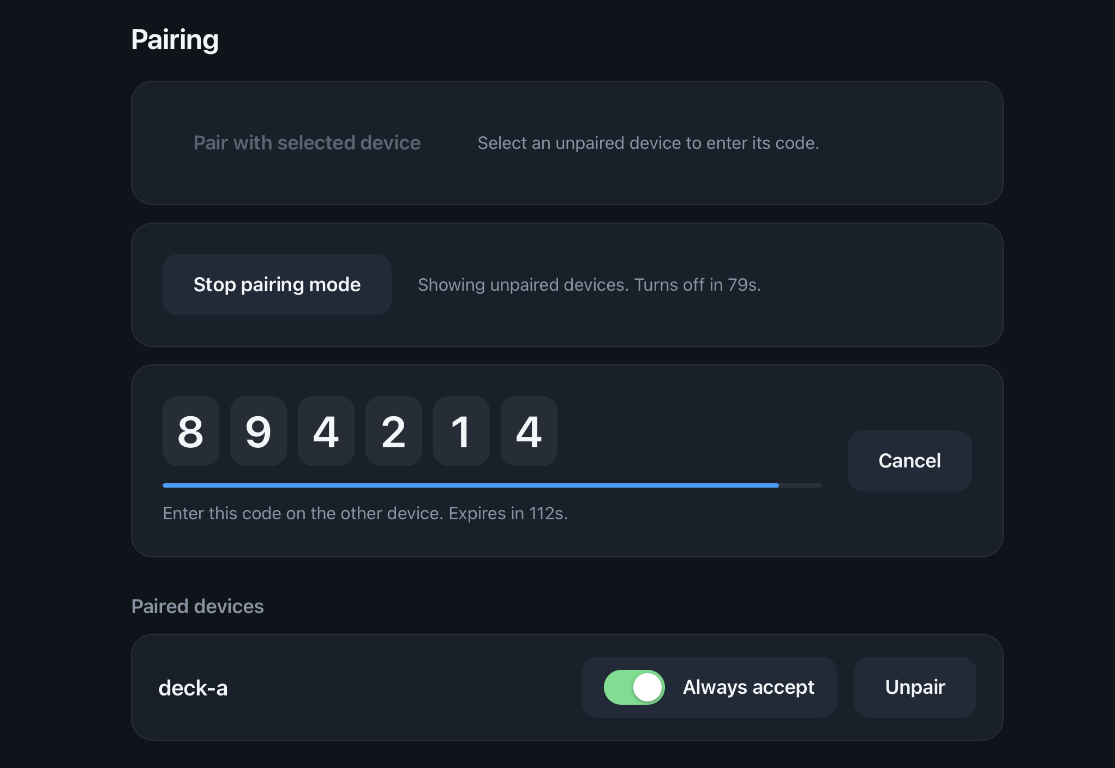
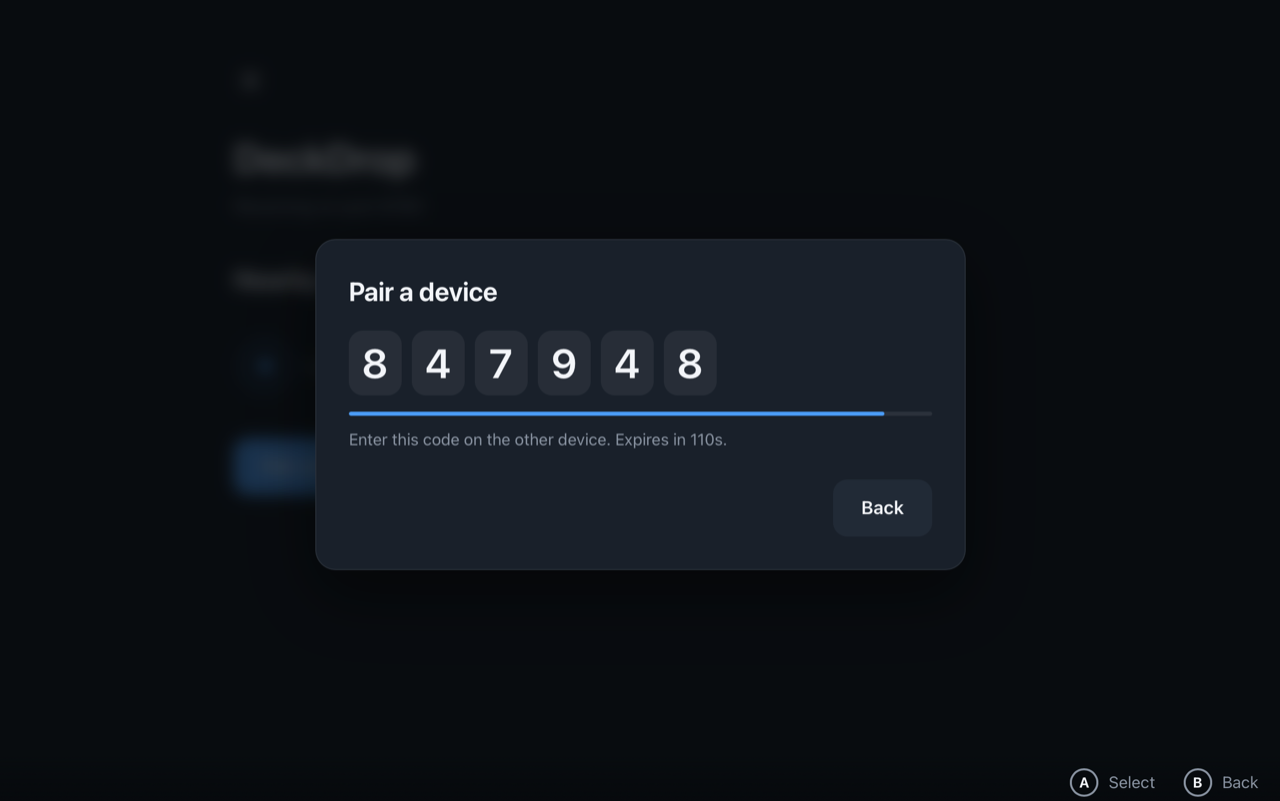
docs: rewrite README and refresh screenshots (#68)

diff --git a/README.md b/README.md
@@ -1,178 +1,82 @@
 # DeckDrop
 
-Send files between your Steam Deck, PC and Mac over your home network. No accounts, no cloud: devices find each other on the local network, and everything is encrypted.
+**Send files between your Steam Deck, PC and Mac over your home network.**
+No accounts, no cloud, no cables. Devices find each other automatically, and every transfer is encrypted.
 
-- **For users:** [Install](#install), [Send your first file](#send-your-first-file), [Good to know](#good-to-know)
-- **For advanced users:** [Headless mode and configuration](#advanced-headless-mode-and-configuration)
-- **For developers:** [Development](#development), [HTTP API](#http-api), [Security design](#security-design)
+[![Latest release](https://img.shields.io/github/v/release/TobyPinfold/deck-drop?include_prereleases&sort=semver)](https://github.com/TobyPinfold/deck-drop/releases)
+[![CI](https://github.com/TobyPinfold/deck-drop/actions/workflows/ci.yml/badge.svg)](https://github.com/TobyPinfold/deck-drop/actions/workflows/ci.yml)
+[![License: GPL v3](https://img.shields.io/badge/license-GPLv3-blue.svg)](LICENSE)
 
----
+<img src="docs/images/home.png" alt="DeckDrop showing three paired devices nearby, with two files downloading" width="720">
 
-# For users
+## Features
+
+- **Built for the Steam Deck.** Works in Game Mode with the gamepad: D-pad to move, A to select, B to go back. A mouse and keyboard work too.
+- **Finds devices on its own.** Nearby devices show up automatically over your local network. There are no IP addresses to type.
+- **Private by design.** Files go straight from one device to the other over TLS 1.3. Nothing passes through a server.
+- **You decide what arrives.** Devices pair once with a six digit code, and you accept or decline every incoming transfer, unless you mark a device as trusted.
+- **Resumes big transfers.** Pause a transfer, or lose the connection, and it picks up where it stopped.
+- **Runs anywhere.** Steam Deck and Linux (x86_64 and arm64), Windows, and macOS. There is also a [headless mode](docs/headless.md) for always-on machines.
 
 ## Install
 
-Download the latest build for your system from the [Releases page](https://github.com/TobyPinfold/deck-drop/releases):
+Download the latest build from the [Releases page](https://github.com/TobyPinfold/deck-drop/releases):
 
-| System                | Download                       |
-| --------------------- | ------------------------------ |
-| Steam Deck / Linux    | AppImage                       |
-| Windows               | Installer                      |
-| macOS (Apple Silicon) | Zipped app                     |
+| System                      | Download                       |
+| --------------------------- | ------------------------------ |
+| Steam Deck / Linux (x86_64) | `deckdrop-x86_64.AppImage`     |
+| Linux (arm64)               | `deckdrop-aarch64.AppImage`    |
+| Windows                     | `deckdrop-amd64-installer.exe` |
+| macOS (Apple Silicon)       | `deckdrop-macos.zip`           |
 
-The macOS and Windows builds are not signed yet. On macOS, right-click the app and choose **Open** the first time. On Windows, SmartScreen may warn you; choose **More info**, then **Run anyway**.
+> [!NOTE]
+> The macOS and Windows builds are not signed yet. On macOS, right-click the app and choose **Open** the first time. On Windows, SmartScreen may warn you; choose **More info**, then **Run anyway**.
 
-## Send your first file
+## How it works
 
-Install DeckDrop on both devices, and make sure they are on the same network. DeckDrop works with a gamepad as well as a mouse: use the D-pad to move, A to select and B to go back.
+Install DeckDrop on both devices and make sure they are on the same network.
 
-<img src="docs/images/devices.png" alt="Nearby devices and sending" width="558">
+### 1. Pair (once)
 
-**1. Pair the devices (once).** Only paired devices can send files to each other.
+On the device that will **receive**, choose **Pair a device → Show a code**. On the device that will **send**, choose **Pair a device → Enter a code**, pick the receiver and type the code.
 
-1. On the device that will *receive*, choose **Pair a device**, then **Show a code**.
-2. On the device that will *send*, choose **Pair a device**, then **Enter a code**. Pick the receiver and enter the six digit code.
+<img src="docs/images/pairing.png" alt="A six digit pairing code with a countdown" width="560">
 
-<img src="docs/images/pairing.png" alt="Pairing code and paired devices" width="558">
+Pairing works one way: it lets the sender send to the receiver. To send both ways, pair the other way round too.
 
-**2. Send.** Select the receiver in **Nearby devices**, then choose **Send files** (or drop files on the window).
+### 2. Send
 
-**3. Accept.** The receiver asks whether to **Accept** or **Decline** (B declines). Accepted files are saved to `Downloads/DeckDrop` in your home folder, and appear under **Received**.
+Select a paired device under **Nearby devices** and choose **Send files**, or drop files on the window.
 
-Pairing works one way: pairing B with A lets B send to A. To send both ways, pair the other way round too.
+<img src="docs/images/send.png" alt="The send dialog for a paired device" width="560">
+
+### 3. Accept
+
+The receiver is asked to **Accept** or **Decline**. Accepted files are saved to `Downloads/DeckDrop` in your home folder and listed under **Received files**.
+
+<img src="docs/images/incoming.png" alt="An incoming offer of three files from gaming-pc, with Accept and Decline buttons" width="560">
+
+Progress shows under **Transfers** on both devices. Transfers can be paused and resumed, and an interrupted one carries on where it stopped.
+
+<img src="docs/images/transfers.png" alt="Two incoming transfers from macbook: one done, one receiving at 221.8 MB/s" width="720">
 
 ## Good to know
 
-- **Pausing and resuming:** pause a transfer, or lose the connection, and resume continues where it stopped. You are not asked to accept again.
-- **Skip the prompt:** turn on **Always accept** next to a paired device you trust.
-- **Unpairing:** **Unpair** removes a device, and it can no longer send until it is paired again.
-- **Who can see you:** only paired devices are listed. Unpaired devices appear for two minutes while pairing mode is on. To stop announcing your device altogether, turn on **Hide this device** in Settings. Paired devices that know its address can still send.
-- **Settings:** the device name, receive folder and port can be changed in **Settings**. Changes apply straight away. If the new port is in use, your previous settings stay.
-- **Pairing codes:** a code works once, expires after two minutes, and is discarded after five wrong guesses. Check that it is shown on the device you expect.
-- **Limits:** hiding a device and pairing reduce who can see and send to you, but they do not stop someone on your network who is sniffing traffic from seeing that DeckDrop is in use. File contents stay encrypted.
-- **Starting over:** deleting DeckDrop's config folder gives the device a new identity, and devices paired with the old one will refuse it. Pair again.
+<img src="docs/images/settings.png" alt="Settings: device name, port, hide this device, and receive folder" width="560">
 
-Your settings, pairings and identity are kept in your user config folder: `~/Library/Application Support/DeckDrop` on macOS, `~/.config/DeckDrop` on Linux, `%AppData%\DeckDrop` on Windows.
+- **Skip the prompt:** turn on **Always accept** for a paired device you trust. **Unpair** removes a device, and it can no longer send until it is paired again.
+- **Who can see you:** only paired devices are listed. Unpaired devices appear for two minutes while you are pairing. To stop announcing your device altogether, turn on **Hide this device** in **Settings**. Paired devices that already know its address can still send.
+- **Settings:** the device name, receive folder and port can be changed in **Settings**, and apply straight away.
+- **Pairing codes** work once, expire after two minutes, and are discarded after five wrong guesses. Check the code is shown on the device you expect.
+- **Where your data lives:** settings, pairings and the device's identity are kept in `~/Library/Application Support/DeckDrop` on macOS, `~/.config/DeckDrop` on Linux, and `%AppData%\DeckDrop` on Windows. Deleting this folder gives the device a new identity, so you will need to pair again.
 
----
+## More documentation
 
-# For advanced users
+- [Headless mode and configuration](docs/headless.md): run DeckDrop without a window, plus every flag and environment variable.
+- [Security design](docs/security.md): how pairing, encryption and trust work, their limits, and the HTTP API.
+- [Development](docs/development.md): building from source, running tests, code layout and releases.
+- [Contributing](CONTRIBUTING.md): commit conventions and what to run before opening a pull request.
 
-## Advanced: headless mode and configuration
+## License
 
-The same binary runs without a window, for example on an always-on box that just receives files. Add `--headless`:
-
-```sh
-deckdrop --headless --pair                 # log a one-time pairing code at startup
-deckdrop --headless --accept               # accept files from paired devices without asking
-deckdrop --headless --port 9000 --name nas
-```
-
-A headless device has nobody to ask, so it **declines every offer unless you run it with `--accept`**, which accepts anything from paired devices.
-
-Environment variables and flags override saved settings for that run; flags win over environment variables.
-
-| Flag         | Environment variable   | Default                                   | Description                                              |
-| ------------ | ---------------------- | ----------------------------------------- | -------------------------------------------------------- |
-| `--port`     | `DECKDROP_PORT`        | `8080`                                    | TCP port to listen on (1-65535)                          |
-| `--dir`      | `DECKDROP_RECEIVE_DIR` | `~/Downloads/DeckDrop` (`received_files` headless) | Directory received files are saved to   |
-| `--name`     | `DECKDROP_DEVICE_NAME` | machine hostname                          | Device name shown to other devices                       |
-| `--headless` |                        | off                                       | Run without the desktop window                           |
-| `--pair`     |                        | off                                       | Log a one-time pairing code at startup (headless)        |
-| `--accept`   |                        | off                                       | Accept files from paired devices without asking (headless) |
-
-```sh
-DECKDROP_RECEIVE_DIR=$HOME/Downloads/DeckDrop deckdrop --headless
-```
-
-Run `deckdrop --help` to list the options.
-
-Try sending between two instances on one machine by running one headless and one with the window, with different ports and names:
-
-```sh
-deckdrop --headless --port 8099 --name other-deck --dir /tmp/dd-test --pair --accept
-deckdrop    # pair with "other-deck" using the logged code, then send it a file
-```
-
-The headless backend announces itself on the local network as `_deckdrop._tcp` via mDNS and saves received files to `./received_files` by default. Stop it with Ctrl+C.
-
----
-
-# For developers
-
-## Development
-
-Requirements:
-
-- Go 1.27 or newer (see `go.mod`)
-- Node.js (current LTS) for the frontend
-- The Wails CLI: `go install github.com/wailsapp/wails/v3/cmd/wails3@v3.0.0` (make sure `$(go env GOPATH)/bin` is on your `PATH`)
-- On Linux / Steam Deck: GTK 4 and WebKitGTK 6.0 (for example `libgtk-4-dev libwebkitgtk-6.0-dev`)
-- [golangci-lint](https://golangci-lint.run/) for `make lint` (optional)
-
-Run `wails3 doctor` to check your setup.
-
-```sh
-wails3 dev                            # run the desktop app with live reload
-make app                              # build the app into bin/
-go build -o deckdrop ./cmd/deckdrop   # build the headless-only binary
-make test                             # run the Go tests
-make lint                             # run the linter
-cd frontend && npm test               # frontend tests
-```
-
-After changing methods or types exposed to the frontend, regenerate the bindings with `wails3 generate bindings -clean=true -ts -i` and commit the result.
-
-### Code layout
-
-DeckDrop is a single binary: a [Wails v3](https://v3.wails.io) window that embeds the backend, which starts and stops with the window. The frontend is Preact with htm, built with Vite, in `frontend/`.
-
-The root package wires the Wails desktop application; `cmd/deckdrop` is the headless entry point. `internal/app` is the desktop-facing facade. `internal/backend` owns the receiving server lifecycle, with HTTP routes in `internal/backend/httpapi` and command-line/environment parsing in `internal/backend/config`. Identity, trust, pairing, offers, discovery, sending, settings and received-file history live in their own `internal` packages.
-
-### Releases
-
-Pushing a tag such as `v0.1.0` runs the Release workflow, which builds a Linux AppImage, a Windows installer and a macOS app bundle (zipped, Apple Silicon) and attaches them to a GitHub release. The workflow also runs on pull requests that change `build/` so packaging problems are caught early.
-
-## HTTP API
-
-Files are sent in chunks so interrupted transfers can resume. The server speaks HTTPS only (TLS 1.3); see [Security design](#security-design).
-
-| Endpoint                   | Description                                                                                                                 |
-| -------------------------- | --------------------------------------------------------------------------------------------------------------------------- |
-| `GET /health`              | Returns 200 when the backend is running                                                                                     |
-| `POST /pair`               | Pairs a device that proves it knows the one-time code                                                                       |
-| `POST /offer`              | Asks the receiver to accept a list of files (`{"files":[{"name","size"}]}`). Waits for the user: 204 accepted, 403 declined |
-| `POST /upload`             | Writes the request body at a byte offset. Headers: `X-File-Name`, `X-File-Offset`. Returns 204                              |
-| `GET /status?filename=...` | Returns the bytes received so far in the `X-File-Offset` header, to resume from                                             |
-
-`/offer`, `/upload` and `/status` return 403 unless the caller presented the certificate of a paired device. `/upload` and `/status` also return 428 for a file that was not offered and accepted, and an upload cannot go past the size that was offered. Uploads over the maximum chunk size (64 MiB) are rejected with 413. Invalid file names are rejected with 400.
-
-Only `/health` and `/pair` can be called without pairing, for example `curl -k https://localhost:8080/health` (`-k` because the certificate is self-signed).
-
-## Security design
-
-### Identity and encryption
-
-Each device creates a self-signed certificate the first time it runs (`identity.crt` and `identity.key` in the config folder; the key is readable only by you). Its SHA-256 fingerprint identifies the device and is advertised in the mDNS `fp=` record. All transfers are encrypted with TLS 1.3.
-
-### Pairing
-
-The receiver shows a one-time six digit code. The code is never sent: the other device sends an HMAC of both certificate fingerprints keyed with the code, so someone watching the network, or sitting in the middle with their own certificate, cannot reuse it. The code expires after two minutes, works once, and is discarded after five wrong attempts.
-
-Each side stores the other's certificate fingerprint in `paired.json` in the config folder, and the sender pins it. The server requests a client certificate and accepts requests only from paired fingerprints, so the certificate is the credential and there are no tokens.
-
-### Offers
-
-A paired device must offer its files first. The receiver's user accepts or declines, and an unanswered offer is declined after a minute. Nothing is written until an offer is accepted, and only the offered files, up to their offered sizes, are accepted. Grants are held in memory, are removed when a file completes, and expire after a day unused, so resuming does not ask again.
-
-### Visibility
-
-By default only paired devices are listed. Pairing mode lists nearby unpaired devices for two minutes. The **Hide this device** setting stops mDNS announcing entirely.
-
-### Trust model and limits
-
-- There is no certificate authority. A sender checks that a device's certificate matches the fingerprint it has pinned for it.
-- Connections to a paired device are authenticated: the sender refuses a certificate that is not the pinned one. The fingerprint advertised over mDNS is only a hint for finding the pin; anyone can announce anything, but cannot present the paired device's certificate.
-- Pairing is only as strong as the code: an attacker has five guesses at a one in a million code per pairing attempt, and the person pairing should check the code appears on the device they expect.
-- mDNS is multicast on the local network. Hiding reduces what is listed and who can send, but does not hide a device from someone sniffing the network.
-- Deleting the identity files gives the device a new identity, which devices that pinned the old one will reject.
+DeckDrop is released under the [GNU General Public License v3.0](LICENSE).

diff --git a/docs/security.md b/docs/security.md
@@ -1,0 +1,45 @@
+# Security design
+
+DeckDrop has no accounts and no server in the middle. Devices trust each other by pinning certificates, set up once with a short pairing code.
+
+## Identity and encryption
+
+Each device creates a self-signed certificate the first time it runs (`identity.crt` and `identity.key` in the config folder; the key is readable only by you). Its SHA-256 fingerprint identifies the device and is advertised in the mDNS `fp=` record. All transfers are encrypted with TLS 1.3.
+
+## Pairing
+
+The receiver shows a one-time six digit code. The code is never sent: the other device sends an HMAC of both certificate fingerprints keyed with the code, so someone watching the network, or sitting in the middle with their own certificate, cannot reuse it. The code expires after two minutes, works once, and is discarded after five wrong attempts.
+
+Each side stores the other's certificate fingerprint in `paired.json` in the config folder, and the sender pins it. The server requests a client certificate and accepts requests only from paired fingerprints, so the certificate is the credential and there are no tokens.
+
+## Offers
+
+A paired device must offer its files first. The receiver's user accepts or declines, and an unanswered offer is declined after a minute. Nothing is written until an offer is accepted, and only the offered files, up to their offered sizes, are accepted. Grants are held in memory, are removed when a file completes, and expire after a day unused, so resuming does not ask again.
+
+## Visibility
+
+By default only paired devices are listed. Pairing mode lists nearby unpaired devices for two minutes. The **Hide this device** setting stops mDNS announcing entirely.
+
+## Trust model and limits
+
+- There is no certificate authority. A sender checks that a device's certificate matches the fingerprint it has pinned for it.
+- Connections to a paired device are authenticated: the sender refuses a certificate that is not the pinned one. The fingerprint advertised over mDNS is only a hint for finding the pin; anyone can announce anything, but cannot present the paired device's certificate.
+- Pairing is only as strong as the code: an attacker has five guesses at a one in a million code per pairing attempt, and the person pairing should check the code appears on the device they expect.
+- mDNS is multicast on the local network. Hiding reduces what is listed and who can send, but does not hide a device from someone sniffing the network.
+- Deleting the identity files gives the device a new identity, which devices that pinned the old one will reject.
+
+## HTTP API
+
+Files are sent in chunks so interrupted transfers can resume. The server speaks HTTPS only (TLS 1.3).
+
+| Endpoint                   | Description                                                                                                                 |
+| -------------------------- | --------------------------------------------------------------------------------------------------------------------------- |
+| `GET /health`              | Returns 200 when the backend is running                                                                                     |
+| `POST /pair`               | Pairs a device that proves it knows the one-time code                                                                       |
+| `POST /offer`              | Asks the receiver to accept a list of files (`{"files":[{"name","size"}]}`). Waits for the user: 204 accepted, 403 declined |
+| `POST /upload`             | Writes the request body at a byte offset. Headers: `X-File-Name`, `X-File-Offset`. Returns 204                              |
+| `GET /status?filename=...` | Returns the bytes received so far in the `X-File-Offset` header, to resume from                                             |
+
+`/offer`, `/upload` and `/status` return 403 unless the caller presented the certificate of a paired device. `/upload` and `/status` also return 428 for a file that was not offered and accepted, and an upload cannot go past the size that was offered. Uploads over the maximum chunk size (64 MiB) are rejected with 413. Invalid file names are rejected with 400.
+
+Only `/health` and `/pair` can be called without pairing, for example `curl -k https://localhost:8080/health` (`-k` because the certificate is self-signed).

diff --git a/docs/development.md b/docs/development.md
@@ -1,0 +1,45 @@
+# Development
+
+See also [CONTRIBUTING.md](../CONTRIBUTING.md) for commit and pull request conventions.
+
+## Requirements
+
+- Go 1.27 or newer (see `go.mod`)
+- Node.js (current LTS) for the frontend
+- The Wails CLI: `go install github.com/wailsapp/wails/v3/cmd/wails3@v3.0.0` (make sure `$(go env GOPATH)/bin` is on your `PATH`)
+- On Linux / Steam Deck: GTK 4 and WebKitGTK 6.0 (for example `libgtk-4-dev libwebkitgtk-6.0-dev`)
+- [golangci-lint](https://golangci-lint.run/) for `make lint` (optional)
+
+Run `wails3 doctor` to check your setup.
+
+## Common commands
+
+```sh
+wails3 dev                            # run the desktop app with live reload
+make app                              # build the app into bin/
+go build -o deckdrop ./cmd/deckdrop   # build the headless-only binary
+make test                             # run the Go tests
+make lint                             # run the linter
+cd frontend && npm test               # frontend tests
+```
+
+After changing methods or types exposed to the frontend, regenerate the bindings with `wails3 generate bindings -clean=true -ts -i` and commit the result.
+
+## Code layout
+
+DeckDrop is a single binary: a [Wails v3](https://v3.wails.io) window that embeds the backend, which starts and stops with the window. The frontend is Preact with htm, built with Vite, in `frontend/`.
+
+| Path                         | What it does                                                    |
+| ---------------------------- | --------------------------------------------------------------- |
+| `*.go` (root package)        | Wires the Wails desktop application                             |
+| `cmd/deckdrop`               | Headless entry point                                            |
+| `internal/app`               | Desktop-facing facade used by the frontend                      |
+| `internal/backend`           | Receiving server lifecycle                                      |
+| `internal/backend/httpapi`   | HTTP routes (see [Security design](security.md#http-api))       |
+| `internal/backend/config`    | Command-line and environment parsing                            |
+| Other `internal/` packages   | One per concern, for example `identity`, `trust`, `pairing`, `offer`, `discovery` (mDNS), `transfer` (sending), `settings` and `history` (received files) |
+| `frontend/`                  | Preact UI, with gamepad and keyboard navigation                 |
+
+## Releases
+
+Pushing a tag such as `v0.1.0` runs the Release workflow, which builds Linux AppImages (x86_64 and arm64), a Windows installer and a macOS app bundle (zipped, Apple Silicon) and attaches them to a GitHub release. The workflow also runs on pull requests that change `build/` so packaging problems are caught early.

diff --git a/docs/headless.md b/docs/headless.md
@@ -1,0 +1,41 @@
+# Headless mode and configuration
+
+The same binary runs without a window, for example on an always-on box that just receives files. Add `--headless`:
+
+```sh
+deckdrop --headless --pair                 # log a one-time pairing code at startup
+deckdrop --headless --accept               # accept files from paired devices without asking
+deckdrop --headless --port 9000 --name nas
+```
+
+A headless device has nobody to ask, so it **declines every offer unless you run it with `--accept`**, which accepts anything from paired devices.
+
+## Options
+
+Environment variables and flags override saved settings for that run; flags win over environment variables.
+
+| Flag         | Environment variable   | Default                                            | Description                                                 |
+| ------------ | ---------------------- | -------------------------------------------------- | ----------------------------------------------------------- |
+| `--port`     | `DECKDROP_PORT`        | `8080`                                             | TCP port to listen on (1-65535)                             |
+| `--dir`      | `DECKDROP_RECEIVE_DIR` | `~/Downloads/DeckDrop` (`received_files` headless) | Directory received files are saved to                       |
+| `--name`     | `DECKDROP_DEVICE_NAME` | machine hostname                                   | Device name shown to other devices                          |
+| `--headless` |                        | off                                                | Run without the desktop window                              |
+| `--pair`     |                        | off                                                | Log a one-time pairing code at startup (headless)           |
+| `--accept`   |                        | off                                                | Accept files from paired devices without asking (headless) |
+
+```sh
+DECKDROP_RECEIVE_DIR=$HOME/Downloads/DeckDrop deckdrop --headless
+```
+
+Run `deckdrop --help` to list the options.
+
+The headless backend announces itself on the local network as `_deckdrop._tcp` via mDNS and saves received files to `./received_files` by default. Stop it with Ctrl+C.
+
+## Trying it on one machine
+
+Run one instance headless and one with the window, with different ports and names:
+
+```sh
+deckdrop --headless --port 8099 --name other-deck --dir /tmp/dd-test --pair --accept
+deckdrop    # pair with "other-deck" using the logged code, then send it a file
+```
